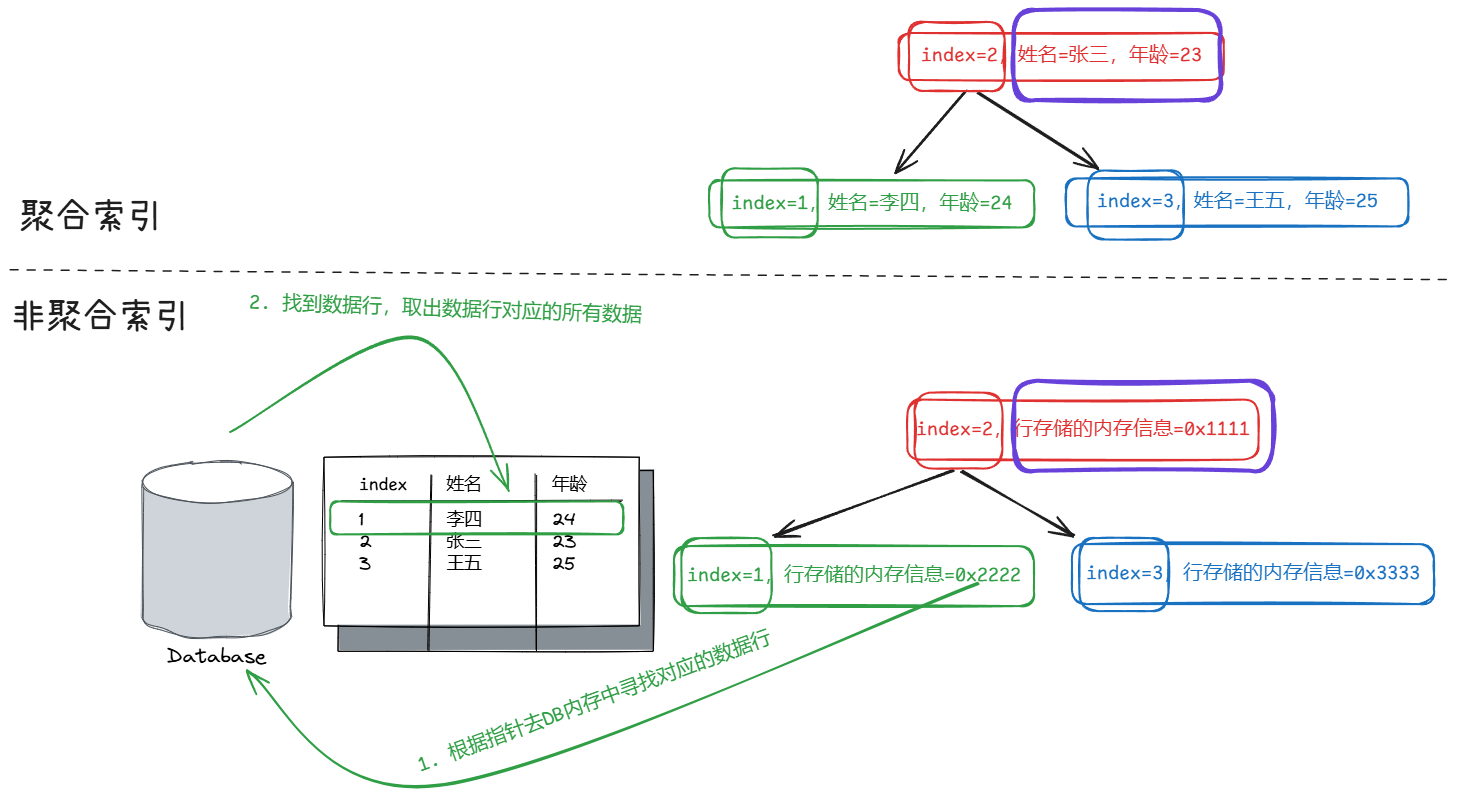
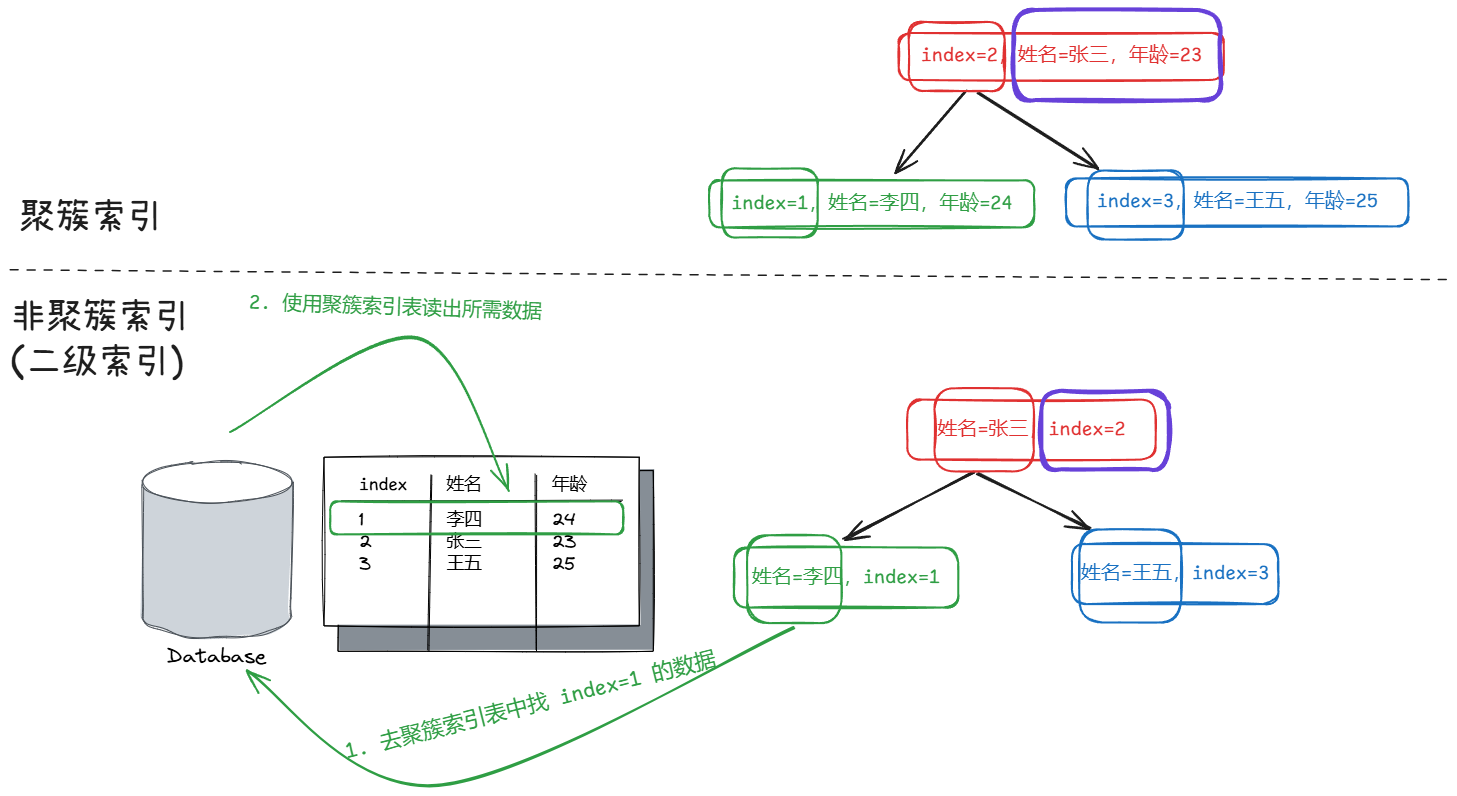
Site updated: 2024-12-23 12:42:01

diff --git a/2024/12/21/数据库基础概念-聚合索引和回表/index.html b/2024/12/21/数据库基础概念-聚合索引和回表/index.html
@@ -6,16 +6,16 @@
     <meta http-equiv="X-UA-Compatible" content="IE=edge">
     <meta name="HandheldFriendly" content="True">
     <meta name="viewport" content="width=device-width, initial-scale=1, maximum-scale=5" />
-    <meta name="description" content="❗读前须知应该要有一点C的基础，至少应该知道什么是指针，什么是内存 1. 聚合索引与非聚合索引	首先，通过 图1-1 感受一下，聚合索引和非聚合索引的区别。需要说明的是，并不是说真实的数据库中就是这么做的，只是大概是这个意思，初学的话，意会即可，感受到这个含义了，有一个大概的认知了，就可以了。  图1-1 聚合索引与非聚合索引  	聚合索引，这里的“聚合”，指的应该是，把数据行的所有信息，聚合">
+    <meta name="description" content="❗读前须知应该要有一点C的基础，至少应该知道什么是指针，什么是内存 1. 聚簇索引与非聚簇索引	首先，通过 图1-1 感受一下，聚合索引和非聚合索引的区别。需要说明的是，并不是说真实的数据库中就是这么做的，只是大概是这个意思，初学的话，意会即可，感受到这个含义了，有一个大概的认知了，就可以了。  图1-1 聚簇索引与非聚簇引  	聚簇索引，这里的“聚簇”，指的应该是，把数据行的所有信息，聚合到">
 <meta property="og:type" content="article">
 <meta property="og:title" content="数据库基础概念-聚合索引和回表">
 <meta property="og:url" content="http://example.com/2024/12/21/%E6%95%B0%E6%8D%AE%E5%BA%93%E5%9F%BA%E7%A1%80%E6%A6%82%E5%BF%B5-%E8%81%9A%E5%90%88%E7%B4%A2%E5%BC%95%E5%92%8C%E5%9B%9E%E8%A1%A8/index.html">
 <meta property="og:site_name" content="Dingyx&#39;s Blog">
-<meta property="og:description" content="❗读前须知应该要有一点C的基础，至少应该知道什么是指针，什么是内存 1. 聚合索引与非聚合索引	首先，通过 图1-1 感受一下，聚合索引和非聚合索引的区别。需要说明的是，并不是说真实的数据库中就是这么做的，只是大概是这个意思，初学的话，意会即可，感受到这个含义了，有一个大概的认知了，就可以了。  图1-1 聚合索引与非聚合索引  	聚合索引，这里的“聚合”，指的应该是，把数据行的所有信息，聚合">
+<meta property="og:description" content="❗读前须知应该要有一点C的基础，至少应该知道什么是指针，什么是内存 1. 聚簇索引与非聚簇索引	首先，通过 图1-1 感受一下，聚合索引和非聚合索引的区别。需要说明的是，并不是说真实的数据库中就是这么做的，只是大概是这个意思，初学的话，意会即可，感受到这个含义了，有一个大概的认知了，就可以了。  图1-1 聚簇索引与非聚簇引  	聚簇索引，这里的“聚簇”，指的应该是，把数据行的所有信息，聚合到">
 <meta property="og:locale" content="zh_CN">
 <meta property="og:image" content="http://example.com/images/%E6%95%B0%E6%8D%AE%E5%BA%93%E5%9F%BA%E7%A1%80%E6%A6%82%E5%BF%B5-%E8%81%9A%E5%90%88%E7%B4%A2%E5%BC%95%E5%92%8C%E5%9B%9E%E8%A1%A8/1-1.png">
 <meta property="article:published_time" content="2024-12-21T05:01:51.000Z">
-<meta property="article:modified_time" content="2024-12-21T06:19:49.249Z">
+<meta property="article:modified_time" content="2024-12-23T04:31:51.594Z">
 <meta property="article:author" content="Dingyx">
 <meta property="article:tag" content="MySQL">
 <meta name="twitter:card" content="summary">
@@ -117,7 +117,7 @@
     
     
       <div id="toc">
-        <ol class="toc"><li class="toc-item toc-level-2"><a class="toc-link" href="#%E2%9D%97%E8%AF%BB%E5%89%8D%E9%A1%BB%E7%9F%A5"><span class="toc-number">1.</span> <span class="toc-text">❗读前须知</span></a></li><li class="toc-item toc-level-2"><a class="toc-link" href="#1-%E8%81%9A%E5%90%88%E7%B4%A2%E5%BC%95%E4%B8%8E%E9%9D%9E%E8%81%9A%E5%90%88%E7%B4%A2%E5%BC%95"><span class="toc-number">2.</span> <span class="toc-text">1. 聚合索引与非聚合索引</span></a></li><li class="toc-item toc-level-2"><a class="toc-link" href="#2-%E5%9B%9E%E8%A1%A8"><span class="toc-number">3.</span> <span class="toc-text">2. 回表</span></a></li></ol>
+        <ol class="toc"><li class="toc-item toc-level-2"><a class="toc-link" href="#%E2%9D%97%E8%AF%BB%E5%89%8D%E9%A1%BB%E7%9F%A5"><span class="toc-number">1.</span> <span class="toc-text">❗读前须知</span></a></li><li class="toc-item toc-level-2"><a class="toc-link" href="#1-%E8%81%9A%E7%B0%87%E7%B4%A2%E5%BC%95%E4%B8%8E%E9%9D%9E%E8%81%9A%E7%B0%87%E7%B4%A2%E5%BC%95"><span class="toc-number">2.</span> <span class="toc-text">1. 聚簇索引与非聚簇索引</span></a></li><li class="toc-item toc-level-2"><a class="toc-link" href="#2-%E5%9B%9E%E8%A1%A8"><span class="toc-number">3.</span> <span class="toc-text">2. 回表</span></a></li></ol>
       </div>
     
   </span>
@@ -163,16 +163,18 @@
 
   <div class="content e-content" itemprop="articleBody">
     <h2 id="❗读前须知"><a href="#❗读前须知" class="headerlink" title="❗读前须知"></a>❗读前须知</h2><p><code>应该要有一点C的基础，至少应该知道什么是指针，什么是内存</code></p>
-<h2 id="1-聚合索引与非聚合索引"><a href="#1-聚合索引与非聚合索引" class="headerlink" title="1. 聚合索引与非聚合索引"></a>1. 聚合索引与非聚合索引</h2><p>	首先，通过<span style="color:blue"> 图1-1 </span>感受一下，聚合索引和非聚合索引的区别。需要说明的是，<strong>并不是说真实的数据库中就是这么做的</strong>，只是大概是这个意思，初学的话，意会即可，感受到这个含义了，有一个大概的认知了，就可以了。</p>
+<h2 id="1-聚簇索引与非聚簇索引"><a href="#1-聚簇索引与非聚簇索引" class="headerlink" title="1. 聚簇索引与非聚簇索引"></a>1. 聚簇索引与非聚簇索引</h2><p>	首先，通过<span style="color:blue"> 图1-1 </span>感受一下，聚合索引和非聚合索引的区别。需要说明的是，<strong>并不是说真实的数据库中就是这么做的</strong>，只是大概是这个意思，初学的话，意会即可，感受到这个含义了，有一个大概的认知了，就可以了。</p>
 <p><img src="/images/%E6%95%B0%E6%8D%AE%E5%BA%93%E5%9F%BA%E7%A1%80%E6%A6%82%E5%BF%B5-%E8%81%9A%E5%90%88%E7%B4%A2%E5%BC%95%E5%92%8C%E5%9B%9E%E8%A1%A8/1-1.png" alt="1-1"></p>
-<center>图1-1 聚合索引与非聚合索引</center>
+<center>图1-1 聚簇索引与非聚簇引</center>
 
-<p>	聚合索引，这里的“聚合”，指的应该是，把数据行的所有信息，聚合到一起了。注意看<span style="color:blue"> 图1-1 </span>中，<b style="color:purple">紫色方框</b> 的部分，聚合索引<strong>是把所有数据已经读出来了</strong>。而非聚合索引，<strong>存的是指针</strong>，这意味着，对于非聚合索引，如果有其他查询条件，需要对数据库做IO操作，去数据库中确认数据到底是什么。</p>
+<p>	聚簇索引，这里的“聚簇”，指的应该是，把数据行的所有信息，聚合到一起了。注意看<span style="color:blue"> 图1-1 </span>中，<b style="color:purple">紫色方框</b> 的部分，聚簇索引<strong>是把所有数据已经读出来了</strong>。</p>
+<p>	非聚合索引（二级索引），存的是<strong>主键索引或者指针</strong>（反正不是直接的信息，而是<strong>告诉计算机需要去哪里拿实际信息的信息</strong>，具体根据表类型不同，InnoDB是主键索引，而MyISAM是堆表存的是指针），这意味着，对于非聚合索引，如果有其他查询条件，需要对数据库做IO操作，去数据库中确认数据到底是什么。所以我们其实不难理解为什么这个东西被取名为“二级索引”。因为他是用来找第一级的索引的对吧。</p>
 <p>	<em>The leaf nodes of a clustered index contain the data pages. A nonclustered index is a special type of index in which the logical order of the index does not match the physical stored order of the rows on disk. The leaf node of a nonclustered index does not consist of the data pages.</em><br>	这段话说的核心大概是，<em>聚合索引的叶节点，由数据页组成，而非聚合结点不是。</em>然后说什么逻辑顺序、物理存储什么的，我就不太明白在说什么了，但是咱们毕竟是初学，先理解一个大概。</p>
-<p>	例如我想知道<b style="color:green">李四</b>的年龄是多少，在聚合索引中，直接就可以知道<b style="color:green">李四</b>年龄是<b style="color:green">24</b>岁。而在非聚合索引中，我只知道我可以从<b style="color:green">0x2222</b>这块内存中找到<b style="color:green">李四</b>这一行的更具体的信息，但是具体是什么呢，我不知道，我要对数据库<strong>做IO</strong>，读到真正的数据，才知道李四的年龄是什么。如果您理解了这段话，那您应该已经在不经意间，理解了 “回表” 是什么意思。	</p>
+<p>	单独看<span style="color:blue"> 图1-1 </span>。例如我想知道<b style="color:green">李四</b>的年龄是多少，在聚合索引中，直接就可以知道<b style="color:green">李四</b>年龄是<b style="color:green">24</b>岁。而在非聚合索引中，我只知道<b style="color:green">李四</b>的主键id是<b style="color:green">1</b>，但是年龄是多少呢，我不知道，我要对数据库<strong>做IO</strong>，用聚簇索引的那张表，根据主键id&#x3D;1去读到真正的数据，才知道李四的年龄是什么。</p>
+<p>	如果您理解了上面这段话，那您应该已经在不经意间，理解了 “回表” 是什么意思。	</p>
 <h2 id="2-回表"><a href="#2-回表" class="headerlink" title="2. 回表"></a>2. 回表</h2><p>	其实很多人在看到这个词的时候，会感觉这可能是一个很高深很牛逼的操作，其实不是，要知道这些技术词汇很多只是为了<strong>书面表达得比较优雅一些</strong>。</p>
 <p>	在不同的数据库中，回表的英文定义是不同的，但是大多数情况下，回表被认为是：<strong>table lookup</strong>。什么意思呢。根据词典释义，回表的英文直译，其实就是：<em>“从表中搜索数据”（lookup: to try to find a piece of information by looking in a book or on a computer）</em>。<br>	所以您应该能够理解前面提到的，书面表达的优雅一些，您不能见到人就和他说，<br>	<em>“诶，你知道吗，非聚合索引会导致出现重复从表中搜索数据的问题”</em>。<br>	如果换成，<br>	<em>“诶，你知道吗，非聚合索引会导致出现回表问题”</em>。<br>	是不是好多了呢。所以真的不是说造词、搞得高大上什么的，真的不是，只是便于同行之间的交流和理解。<br>	您总不能看到一只猫猫，然后跑去和别人说，<em>“诶，你看到那个，小型四足哺乳动物，身体柔韧，覆盖有细密的毛发，耳尖直立，眼睛能适应暗光环境，爪子可伸缩，用于捕猎或攀爬，尾巴长而灵活，的动物了吗”</em>，对吧。所以这是一种必要的书面表达。</p>
-<p>	所以通过上述简短的介绍，您应该大致能够知道，回表，指的就是<strong>需要根据索引提供的内存地址，重新根据内存地址，去物理磁盘中，做IO，找到索引对应的数据行，的这个过程。</strong></p>
+<p>	所以通过上述简短的介绍，您应该大致能够知道，回表，指的就是<strong>需要根据索引提供的主键信息或者内存地址，去物理磁盘中，做IO，找到索引对应的数据行，的这个过程。</strong></p>
 <p>	当然了，这是个人理解，附上官方释义：“<em>回表（Table Lookup）是数据库查询优化中的一个概念，指的是在使用非聚集索引（Secondary Index 或 Non-Clustered Index）进行查询时，数据库引擎需要通过非聚集索引找到数据行的位置（通常是主键或行标识符），然后再根据这些位置从聚集索引或数据文件中读取完整的数据行的过程</em>。”</p>
 
   </div>
@@ -201,7 +203,7 @@
     
     
       <div id="toc-footer" style="display: none">
-        <ol class="toc"><li class="toc-item toc-level-2"><a class="toc-link" href="#%E2%9D%97%E8%AF%BB%E5%89%8D%E9%A1%BB%E7%9F%A5"><span class="toc-number">1.</span> <span class="toc-text">❗读前须知</span></a></li><li class="toc-item toc-level-2"><a class="toc-link" href="#1-%E8%81%9A%E5%90%88%E7%B4%A2%E5%BC%95%E4%B8%8E%E9%9D%9E%E8%81%9A%E5%90%88%E7%B4%A2%E5%BC%95"><span class="toc-number">2.</span> <span class="toc-text">1. 聚合索引与非聚合索引</span></a></li><li class="toc-item toc-level-2"><a class="toc-link" href="#2-%E5%9B%9E%E8%A1%A8"><span class="toc-number">3.</span> <span class="toc-text">2. 回表</span></a></li></ol>
+        <ol class="toc"><li class="toc-item toc-level-2"><a class="toc-link" href="#%E2%9D%97%E8%AF%BB%E5%89%8D%E9%A1%BB%E7%9F%A5"><span class="toc-number">1.</span> <span class="toc-text">❗读前须知</span></a></li><li class="toc-item toc-level-2"><a class="toc-link" href="#1-%E8%81%9A%E7%B0%87%E7%B4%A2%E5%BC%95%E4%B8%8E%E9%9D%9E%E8%81%9A%E7%B0%87%E7%B4%A2%E5%BC%95"><span class="toc-number">2.</span> <span class="toc-text">1. 聚簇索引与非聚簇索引</span></a></li><li class="toc-item toc-level-2"><a class="toc-link" href="#2-%E5%9B%9E%E8%A1%A8"><span class="toc-number">3.</span> <span class="toc-text">2. 回表</span></a></li></ol>
       </div>
     
 

diff --git a/2099/09/09/计算机中的有趣小知识/index.html b/2099/09/09/计算机中的有趣小知识/index.html
@@ -14,7 +14,7 @@
 <meta property="og:description" content="❗读前须知非技术类文章、一些关于计算机专业名词如何诞生的历史故事 1. Byte这个单词是怎么来的	一个Byte是8个比特位，就是8个01变量组成的，比如01010110，对吧。那为什么会命名为Byte呢，这个词是怎么造出来的？ 	首先我们可以了解一下，Bit 这个词是怎么来的？其实是 binary digit 的缩写嘛。 	实际上，Byte是由单词Bite，变体过来的。最早的时候，计算机用">
 <meta property="og:locale" content="zh_CN">
 <meta property="article:published_time" content="2099-09-09T10:10:00.000Z">
-<meta property="article:modified_time" content="2024-12-22T14:28:29.511Z">
+<meta property="article:modified_time" content="2024-12-22T15:19:10.129Z">
 <meta property="article:author" content="Dingyx">
 <meta property="article:tag" content="其他">
 <meta name="twitter:card" content="summary">
@@ -164,9 +164,8 @@
 <p>	实际上，<strong>Byte</strong>是由单词<strong>Bite</strong>，变体过来的。最早的时候，计算机用二进制计算，只有二进制的概念，没有什么字节这种概念对吧。后来稍微改进一些了，有了一个叫做穿孔卡(punch card)的东西，这个其实就是编程的原型，当时的打孔，就相当于现在的写代码嘛。比如一张卡片上有8个孔，就相当于现在一块内存里面有8个比特嘛。</p>
 <p>	然而，大家不知道什么是计算机，什么是编程，大家看到的场景就是：<strong>机器把穿孔卡给”吃”进去了，然后产生了运算结果</strong>。为了让普罗大众都能理解这种抽象概念，索性直接给他一个和 bite 相同的英文发音，或者说只是把 bite 稍微修改了一下，作为一种方便别人理解的词汇。</p>
 <p>	如果您想知道为什么Byte的设计是8个比特而不是6个7个9个，您可以参考一篇很有意思的文章，这篇文章的作者，是IBM公司的工程师 <strong>Bob Bemer</strong>，他是计算机的先驱者之一：<a target="_blank" rel="noopener" href="https://web.archive.org/web/20161022022146/http://www.bobbemer.com/BYTE.HTM">BYTE.HTM</a>。他用于记录计算机历史的个人博客：<a target="_blank" rel="noopener" href="https://web.archive.org/web/20140516214531/http://bobbemer.com/">bobbemer</a></p>
-<p>	</p>
 <h2 id="2-B树中，B代表什么"><a href="#2-B树中，B代表什么" class="headerlink" title="2. B树中，B代表什么"></a>2. B树中，B代表什么</h2><p>	<a target="_blank" rel="noopener" href="https://vimeo.com/73481096">CPM2013年度会议</a>中，B树创始人之一Edward McCreight首次回应了一个互联网中常见且有趣的问题，“B树中的B到底代表什么”。原文大概是这样的：</p>
-<p>	<em>You just have no idea what a lunchtime conversation can turn into. So there we were, [indistinct] and I, at lunch , we had to give the thing a name. And we were, so, B, we were thinking… B is, you know… <b>We were working for Boeing at the time, we couldn’t use the name without talking to the lawyers. So, there is a B. It has to do with balance, another B. Bayer was the senior author, who did have several years older than I am and had many more publications than I did. So there is another B.</b> And so, at the lunch table <b>we never did resolve whether there was one of those that made more sense than the rest</b>. What really lies to say is: <b>the more you think about what the B in B-trees means, the better you understand B-trees.</b></em><br>	<em>This could’ve been as simple as why not just say B stands for balanced and we can’t call it a balanced tree because it’s actually a self-balancing tree so we’ll stick with B.</em></p>
+<p>	<em>You just have no idea what a lunchtime conversation can turn into. So there we were, [indistinct] and I, at lunch , we had to give the thing a name. And we were, so, B, we were thinking… B is, you know… We were working for Boeing at the time, we couldn’t use the name without talking to the lawyers. So, there is a B. It has to do with balance, another B. Bayer was the senior author, who did have several years older than I am and had many more publications than I did. So there is another B. And so, at the lunch table <b>we never did resolve whether there was one of those that made more sense than the rest</b>. What really lies to say is: the more you think about what the B in B-trees means, the better you understand B-trees.</em><br>	<em>This could’ve been as simple as why not just say B stands for balanced and we can’t call it a balanced tree because it’s actually a self-balancing tree so we’ll stick with B.</em></p>
 <p>	答案是，<strong>没有意思</strong>。他们在午餐的时候想了几个名字，波音、平衡、拜尔(B树作者之一)，每个都以B开头，但是用每个都不合适，因为每一个都只突出了部分特点，而没有突出这种数据结构的全部特点。又由于总所周知，<strong>取名是编程届最大难题</strong>，所以他们为了节约时间多卷几篇论文出来，索性直接取名为B树了。</p>
 <p>	但是正如他所说，你越是思考B到底代表什么，你就会越能够理解B树到底是什么。</p>
 

diff --git a/about/index.html b/about/index.html
@@ -112,7 +112,7 @@
 <li>我相信记录博客也是自己学习、理解、掌握技术的一种很好的方式。</li>
 <li>我也相信，只有让别人理解了某项技术，才能说是自己理解了某项技术。</li>
 </ul>
-<h3 id="3-联系我"><a href="#3-联系我" class="headerlink" title="3. 联系我"></a>3. 联系我</h3><p><a href="mailto:&#100;&#105;&#110;&#103;&#x79;&#x69;&#120;&#117;&#x61;&#110;&#x31;&#x39;&#57;&#57;&#x31;&#48;&#48;&#x39;&#64;&#103;&#109;&#x61;&#x69;&#108;&#46;&#x63;&#111;&#x6d;">&#100;&#105;&#110;&#103;&#x79;&#x69;&#120;&#117;&#x61;&#110;&#x31;&#x39;&#57;&#57;&#x31;&#48;&#48;&#x39;&#64;&#103;&#109;&#x61;&#x69;&#108;&#46;&#x63;&#111;&#x6d;</a></p>
+<h3 id="3-联系我"><a href="#3-联系我" class="headerlink" title="3. 联系我"></a>3. 联系我</h3><p><a href="mailto:&#x64;&#105;&#x6e;&#103;&#121;&#x69;&#120;&#117;&#97;&#x6e;&#x31;&#x39;&#x39;&#57;&#49;&#x30;&#x30;&#x39;&#64;&#103;&#x6d;&#97;&#x69;&#108;&#46;&#99;&#111;&#109;">&#x64;&#105;&#x6e;&#103;&#121;&#x69;&#120;&#117;&#97;&#x6e;&#x31;&#x39;&#x39;&#57;&#49;&#x30;&#x30;&#x39;&#64;&#103;&#x6d;&#97;&#x69;&#108;&#46;&#99;&#111;&#109;</a></p>
 
         
   </div>

diff --git a/2024/12/10/三级缓存与循环依赖/index.html b/2024/12/10/三级缓存与循环依赖/index.html
@@ -17,8 +17,8 @@
 <meta property="article:published_time" content="2024-12-10T08:50:45.000Z">
 <meta property="article:modified_time" content="2024-12-18T14:16:55.302Z">
 <meta property="article:author" content="Dingyx">
-<meta property="article:tag" content="设计模式">
 <meta property="article:tag" content="Spring">
+<meta property="article:tag" content="设计模式">
 <meta name="twitter:card" content="summary">
 <meta name="twitter:image" content="http://example.com/images/%E4%B8%89%E7%BA%A7%E7%BC%93%E5%AD%98%E4%B8%8E%E5%BE%AA%E7%8E%AF%E4%BE%9D%E8%B5%96/%E4%B8%89%E7%BA%A7%E7%BC%93%E5%AD%98.png">
     
